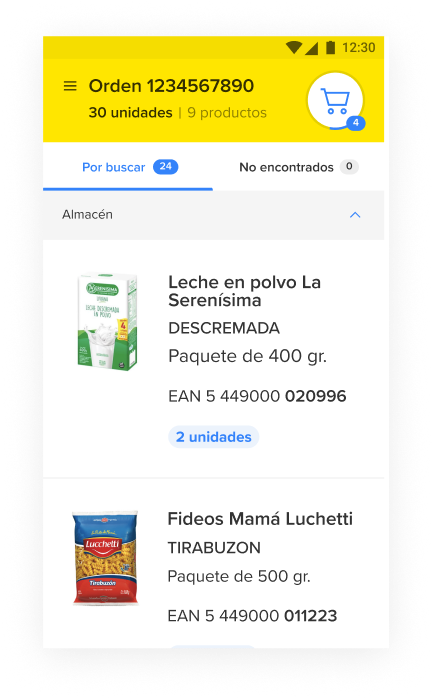
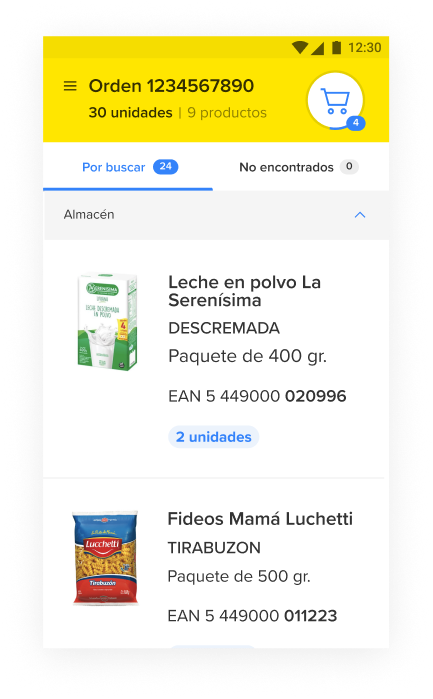
Ajustres varios

Changed region(s): [[0.6605, 0.03, 0.9007, 0.2103], [0.1501, 0.3004, 0.2702, 0.3305], [0.8106, 0.3004, 0.8406, 0.3305]]

diff --git a/pronto-app.html b/pronto-app.html
@@ -414,11 +414,18 @@
       display: flex;
       gap: 8px;
     }
-    .pa-card-benchmark-right img {
+    .pa-card-benchmark-right picture {
       flex: 1;
       height: 100%;
-      object-fit: cover;
+      display: block;
       border-radius: 16px;
+      overflow: hidden;
+    }
+    .pa-card-benchmark-right picture img {
+      width: 100%;
+      height: 100%;
+      object-fit: cover;
+      display: block;
     }
 
     /* ── Userflows section ──────────────────── */
@@ -462,11 +469,16 @@
       justify-content: center;
       padding: 20px 20px 0;
     }
+    .pa-flow-img-wrap picture {
+      display: block;
+      width: 100%;
+      height: 100%;
+    }
     .pa-flow-img {
       width: 100%;
       height: 100%;
       object-fit: contain;
-      object-position: center;
+      object-position: center top;
       border-radius: 0;
       display: block;
     }
@@ -497,7 +509,7 @@
     /* ── Design / Building the solution ─────── */
     .pa-design {
       background: white;
-      padding: 24px 64px 80px 32px;
+      padding: 40px 64px 40px 32px;
       display: flex;
       flex-direction: column;
       gap: 32px;
@@ -566,6 +578,7 @@
     .pa-design-body {
       position: relative;
       min-height: 560px;
+      margin-top: -16px;
     }
     .pa-design-stage {
       position: absolute;
@@ -669,7 +682,7 @@
 
     /* ── Testing section ─────────────────────── */
     .pa-testing {
-      background: white;
+      background: #f5f5f5;
       padding: 80px 64px 80px 32px;
       display: flex;
       flex-direction: column;
@@ -678,7 +691,8 @@
     .pa-testing-header {
       display: flex;
       flex-direction: column;
-      align-items: flex-start;
+      align-items: center;
+      text-align: center;
       gap: 12px;
     }
     .pa-testing-title {
@@ -753,7 +767,7 @@
     /* ── Results section ─────────────────────── */
     .pa-results {
       background: #0f0f0f;
-      padding: 80px 64px 120px 32px;
+      padding: 80px 64px 80px 32px;
       display: flex;
       flex-direction: column;
       gap: 40px;
@@ -896,7 +910,7 @@
       .pa-meta-bar { padding: 20px 12px; gap: 16px 44px; }
 
       /* Intro */
-      .pa-intro { grid-template-columns: 1fr; padding: 40px 16px 48px; row-gap: 24px; }
+      .pa-intro { grid-template-columns: 1fr; padding: 40px 12px 48px; row-gap: 24px; }
       .pa-intro-badge { grid-column: 1; grid-row: 1; }
       .pa-intro-left { grid-column: 1; grid-row: 2; gap: 24px; }
       .pa-intro-right { grid-column: 1; grid-row: 3; position: static; }
@@ -908,20 +922,23 @@
       .pa-research-header { align-items: center; text-align: center; }
       .pa-card { box-shadow: 0 25px 35px rgba(0,0,0,0.08); }
       .pa-card-interviews { flex-direction: column; height: auto; padding: 16px; gap: 16px; }
-      .pa-card-interviews-img { width: 100%; flex: none; height: 200px; border-radius: 16px; order: 2; }
+      .pa-card-interviews-img { width: 100%; flex: none; height: 200px; border-radius: 16px; overflow: hidden; order: 2; }
+      .pa-card-interviews-img picture { display: block; width: 100%; height: 100%; }
+      .pa-card-interviews-img picture img { width: 100%; height: 100%; object-fit: cover; display: block; }
       .pa-card-text { order: 1; }
-      .pa-card-benchmark { flex-direction: column; height: auto; padding: 16px; gap: 16px; }
-      .pa-card-benchmark-right { flex-direction: row; height: 150px; gap: 12px; }
-      .pa-card-benchmark-right picture, .pa-card-benchmark-right img { flex: 1; width: 0; height: 100%; object-fit: cover; border-radius: 16px; }
+      .pa-card-benchmark { flex-direction: column; align-items: stretch; height: auto; padding: 16px; gap: 16px; }
+      .pa-card-benchmark-right { flex-direction: row; height: 150px; gap: 12px; width: 100%; }
+      .pa-card-benchmark-right picture { flex: 1; min-width: 0; height: 100%; display: block; border-radius: 16px; overflow: hidden; }
+      .pa-card-benchmark-right picture img { width: 100%; height: 100%; object-fit: cover; display: block; }
 
       /* Userflows */
       .pa-userflows { padding: 40px 12px; }
       .pa-userflows-header { text-align: center; align-items: center; }
       .pa-flows-grid { flex-direction: column; gap: 16px; }
       .pa-flow-item { height: auto; flex-direction: column-reverse; }
-      .pa-flow-img-wrap { height: 160px; flex: none; padding: 0; }
-      .pa-flow-img-wrap picture { width: 100%; height: 100%; display: block; }
-      .pa-flow-img-wrap picture img { width: 100%; height: 100%; object-fit: cover; }
+      .pa-flow-img-wrap { flex: none; padding: 12px 12px 0; display: block; overflow: hidden; }
+      .pa-flow-img-wrap picture { display: block; width: 100%; }
+      .pa-flow-img-wrap picture img { width: 100%; height: auto; display: block; }
       .pa-flow-text { padding: 12px 16px 0; }
 
       /* Design */
@@ -930,9 +947,12 @@
       .pa-design-body { min-height: unset; }
       .pa-design-stage { position: static; flex-direction: column; gap: 24px; opacity: 0; pointer-events: none; display: none; }
       .pa-design-stage.is-active { opacity: 1; pointer-events: auto; display: flex; }
-      .pa-design-left { flex: none; order: 2; }
+      .pa-design-left { flex: none; order: 2; background: #f5f5f5; border-radius: 16px; padding: 16px; gap: 12px; }
+      .pa-design-body { margin-top: -24px; }
       .pa-wireframes { display: none; }
-      .pa-wireframe-mobile { display: flex; justify-content: center; order: 1; }
+      .pa-wireframe-mobile { display: flex; justify-content: center; order: 1; width: 100%; }
+      .pa-stages-bar { width: 100%; box-sizing: border-box; }
+      .pa-stage { flex: 1; text-align: center; }
       .pa-wireframe-mobile img { width: 100%; max-width: 320px; height: auto; border-radius: 12px; }
 
       /* Testing */
@@ -1481,7 +1501,7 @@
                 </div>
               </div>
               <div class="pa-wireframe-mobile">
-                <img src="images/project_prontoapp/mobile/hi-fi_mobile.png" alt="Hi-Fi mobile">
+                <img src="images/project_prontoapp/mobile/hi-fi_mobile.png?v=2" alt="Hi-Fi mobile">
               </div>
             </div>
 